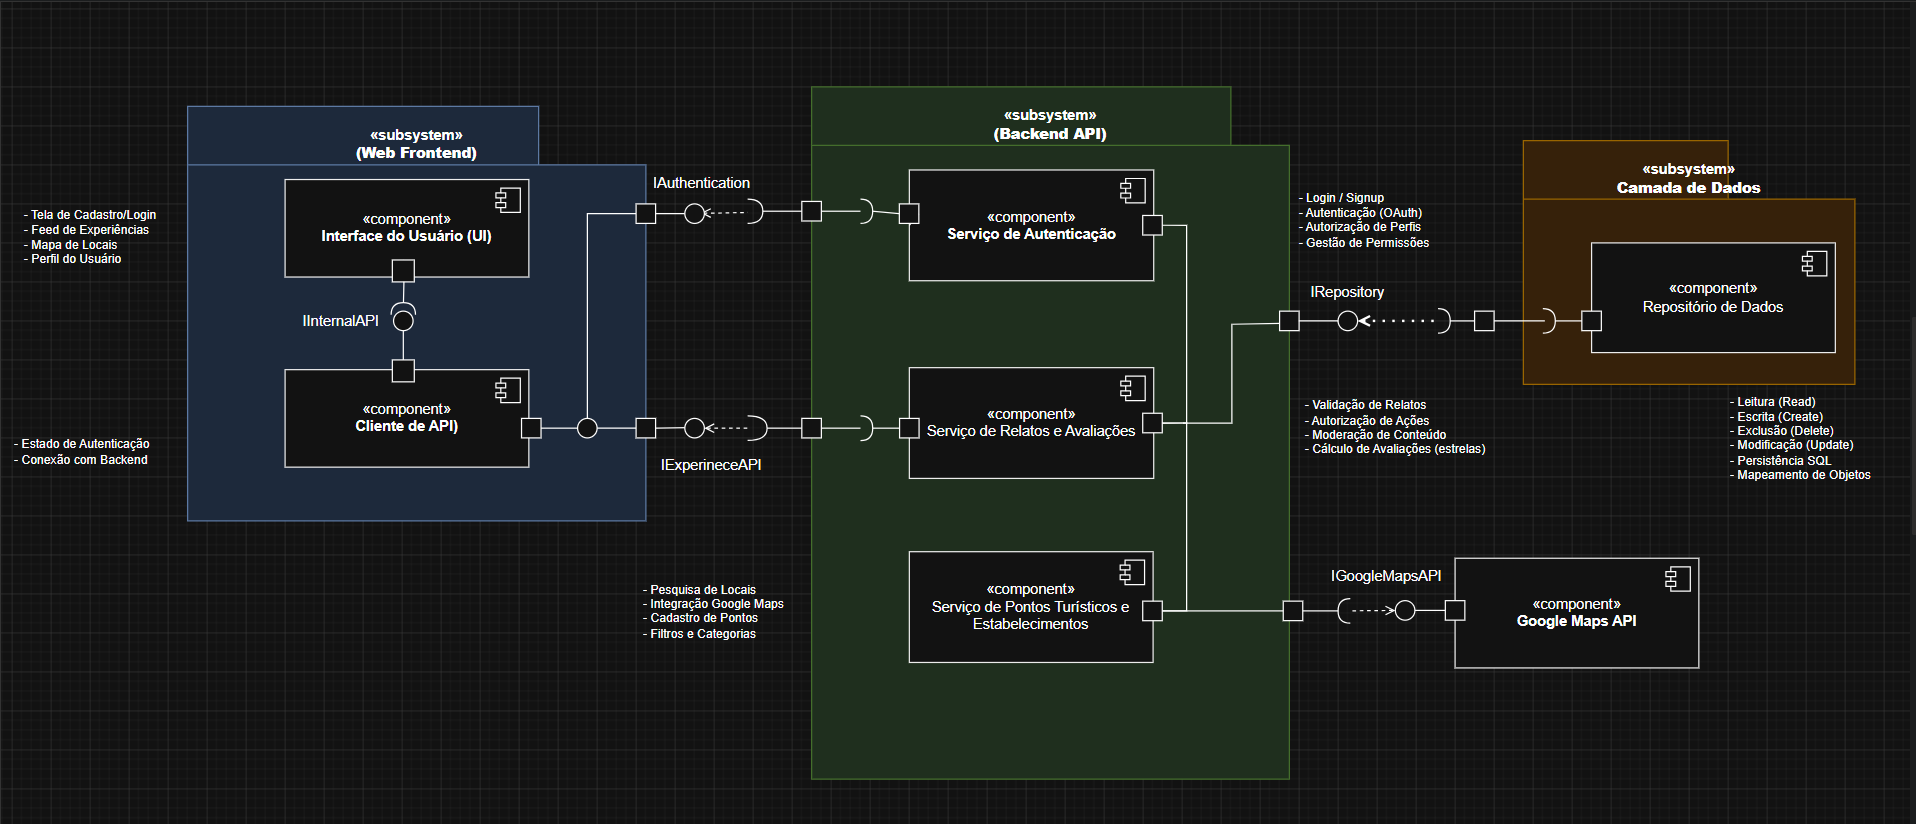
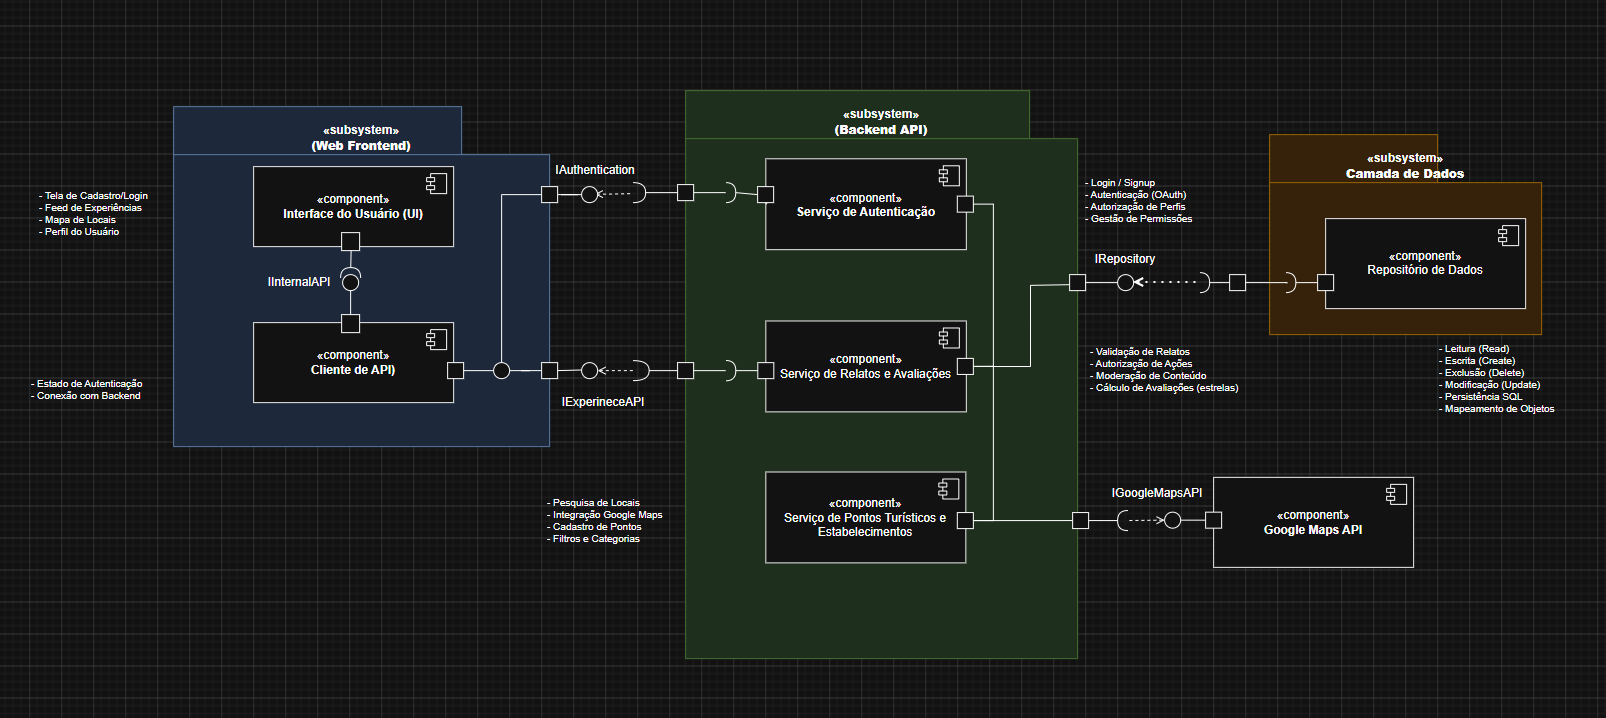
feat: padrao de documentacao e melhoria do conteudo no processo de confeccao do diagrama

diff --git a/docs/Modelagem/ModelagemEstatica/2.1.3.Diagrama_de_Componentes.md b/docs/Modelagem/ModelagemEstatica/2.1.3.Diagrama_de_Componentes.md
@@ -11,47 +11,120 @@ Referência [UML Component (uml-diagrams.org)](https://www.uml-diagrams.org/comp
 
 Documentar, para o projeto **EuAmoPiri**, a arquitetura lógica em componentes e subsistemas que suporta o compartilhamento de experiências sobre Pirenópolis: interface com o utilizador, consumo de APIs de negócio, serviços de autenticação, de relatos e avaliações, de pontos turísticos e estabelecimentos (com integração cartográfica), e persistência via repositório. O objetivo é explicitar **dependências entre módulos** por interfaces, orientando implementação, testes e evolução independente de cada parte.
 
+## Metodologia
+
+Letícia Paiva (letwasz), Mariana Martins Silva e Amanda De Moura utilizaram o **Discord** (canal dedicado ao artefato de componentes) para a confecção e refinamento do diagrama. A comunicação foi predominantemente **assíncrona**, porém frequente: cada proposta de rascunho, dúvida de notação ou ajuste de conectores era compartilhada para que o grupo pudesse refletir, alinhar com o material da disciplina e evoluir o modelo de forma coletiva.
+
+Para **revisão**, aguardamos comentários dos colegas que se dispuseram a revisar o diagrama: **Davi Egito** (DaviMEC), **Gabriela Dourado** e **Milena Marques** (milenamso), também de forma assíncrona no Discord. Os prints das principais discussões e dos feedbacks estão referenciados nas secções seguintes, em ordem cronológica aproximada do fluxo de trabalho.
+
+## Discussões no Discord (evolução do artefato)
+
+As imagens abaixo documentam o fio condutor das decisões, da abertura do trabalho até o alinhamento sobre notação e estrutura do diagrama.
+
+1. **Início do artefato e registro de versão** — Amanda compartilha links do diagrama (Google Drive e draw.io) e inicia o registro de histórico; a primeira entrada documentada é a criação do rascunho por Letícia (13/04/2026). Letícia complementa com o link da videoaula da professora, utilizada como referência principal pelo grupo.
+
+![Discussão — início do artefato e versionamento](./imagens/discussao_discord_artefato_componentes_inicio.png)
+
+2. **Apresentação do primeiro rascunho (camadas)** — Letícia explica a escolha de separar **Interface do Usuário** e **Cliente de API** na camada de apresentação, e serviços de negócio alinhados ao fluxo BPMN (autenticação, locais, experiências), com ligações iniciais à camada de dados.
+
+![Discussão — rascunho e racional da Letícia](./imagens/discussao_discord_artefato_componentes_leiticia_rascunho.png)
+
+3. **Revisão do rascunho com anotações** — Amanda registra feedback visual (anotações em vermelho) sobre aprofundar funcionalidades na UI, relação com visão MVC, distinção autenticação/autorização, operações de persistência (CRUD) e coerência das ligações com `IRepository`.
+
+![Discussão — revisão do rascunho pela Amanda](./imagens/discussao_discord_artefato_componentes_amanda__revisao_rascunho.png)
+
+4. **Portas do serviço de autenticação** — Debate entre Amanda e Letícia sobre modelar login/cadastro como portas separadas ou como **funções internas** de um único ponto de acesso ao serviço; consenso em **uma porta/interface** para o serviço de autenticação como um todo, em vez de fragmentar cada operação.
+
+![Discussão — autenticação e portas](./imagens/discussao_discord_artefato_componentes_leiticia_amanda_autenticacao.png)
+
+5. **Camada de dados e Google Maps** — Mariana questiona a necessidade de ambos os serviços (experiências e locais) dependerem da camada de dados; Letícia confirma. Sobre o Google Maps, acorda-se representá-lo como **componente externo** ligado ao serviço de locais, por consumo de API, em vez de subsistema interno.
+
+![Discussão — experiências, dados e Maps](./imagens/discussao_discord_artefato_componentes_leiticia_mariana_experiencias.png)
+
+6. **Tipo de linha e integração externa** — Mariana pede opinião sobre linhas tracejadas vs. contínuas nas relações de requerimento; após troca com Amanda (e contexto da Letícia sobre Maps), Mariana **padroniza linhas contínuas** onde fazia sentido para a leitura do grupo. Fica registrado o matiz de cadastro de local por morador, além do consumo do mapa.
+
+![Discussão — linhas contínuas/tracejadas e Maps](./imagens/discussao_discord_artefato_componentes_amanda__mariana_linha_cont.png)
+
+7. **Padronização gráfica dos “pirulitos”** — Davi aponta inconsistência visual: interfaces providas com formato **elíptico** em vez de **circulares**; o grupo acorda corrigir para evitar penalização na correção e manter notação uniforme.
+
+![Discussão — revisão gráfica (Davi)](./imagens/discussao_discord_artefato_componentes_davi_revisao.png)
+
+8. **Dependências e visão de componente (pós-aula)** — Amanda e Mariana alinham após aula sobre componentes, refinando os **conectores de dependência/requerimento** e a intenção de **consolidar um único diagrama** final, em vez de versões paralelas desconexas.
+
+![Discussão — relações de dependência e refinamento final](./imagens/discussao_discord_artefato_componentes_amanda__mariana_rel_dep.png)
+
+## Feedbacks dos revisores
+
+Além das mensagens já integradas ao fio das [Discussões no Discord](#discussões-no-discord-evolução-do-artefato) (em especial o **item 7**, com o print da revisão do Davi), os registos abaixo destacam feedbacks dos revisores.
+
+**Davi Egito** — Padronização das interfaces providas (**círculos** em vez de formas elípticas) e visão geral positiva do restante do artefato após o ajuste (vide **item 7** nas discussões e respetiva imagem).
+
+**Gabriela Dourado** — Reconhecimento do uso de templates UML; elogio à nomeação de interfaces com prefixo **`I`**, citando `IGoogleMapsAPI` como exemplo intuitivo de contrato.
+
+![Feedback — Gabriela Dourado](./imagens/discussao_discord_artefato_componentes_gabi_revisao.png)
+
+**Milena Marques** — Identificação de **interface/conector pendente** no subsistema de relatos em relação ao frontend; Mariana assume o ajuste para fechar o fluxo de comunicação de forma coerente.
+
+![Feedback — Milena Marques](./imagens/discussao_discord_artefato_componentes_milena_revisao.png)
+
 ## Evolução do artefato
 
-### Versão 1.0.0 — rascunho (13/04/2026)
+A sequência de figuras abaixo acompanha a linha visual principal acordada pelo grupo — **do rascunho inicial à versão final** — e **correlaciona-se ao [Histórico do artefato](#histórico-do-artefato)** (versões `1.0.0` a `1.2.1`)
 
-Primeira versão do diagrama de componentes, definindo subsistemas e componentes principais e iniciando o desenho das relações entre frontend, backend e dados.
+### Figura 1 — Rascunho inicial
 
-### Versão 1.0.0 — revisão e direcionamentos (14/04/2026)
+**Correlação com o histórico:** `1.0.0` — **13/04/2026** — criação do rascunho (Letícia Paiva).
 
-Análise do rascunho com foco em nomenclaturas, interfaces e termos.
+Primeira materialização em três grandes blocos (apresentação, negócio, dados), com **Interface do Usuário**, **Cliente de API**, serviços de **Autenticação**, **Gerenciador de Experiências** e **Serviço de Locais**, e **Acesso a Dados (DAO)**, já com interfaces `IAuthService`, `IExperienceAPI` e `IRepository` esboçadas entre camadas.
 
-### Versão 1.1.0 (15/04/2026)
+![Diagrama de componentes — rascunho inicial (v0)](./imagens/diagrama_componentes_v0.png)
 
-Elaboração de uma segunda versão do diagrama com correção da **notação** dos elementos, aproximando o modelo do detalhe de implementação e especificando sobretudo relações **provide** e **require** envolvendo o serviço de locais (pontos turísticos e estabelecimentos).
+**Letícia Paiva:** no processo de criação do primeiro rascunho, parti das decisões que já tínhamos sobre o funcionamento do sistema e extraí principalmente informações da modelagem **BPMN**, o que ajudou a ter uma noção inicial de como separar em **camadas**. A partir disso, tentei organizar as principais partes do sistema e agrupar várias ações relacionadas para identificar um **componente**. Além disso, a **videoaula da professora** contribuiu bastante para entender melhor a estruturação do diagrama e orientar a construção do primeiro rascunho.
 
-### Versão 1.2.0 (16/04/2026)
+### Figura 2 — Versão Adaptada (exploratória)
 
-Correção de requerimentos, acréscimo de um componente e ajustes para tornar o diagrama mais **completo** e coerente com o restante desenho do sistema.
+**Correlação com o histórico:** momento ligado à **análise e direcionamentos** de **14/04/2026** (`1.0.0`, Amanda De Moura) e à discussão de **aprofundamento** do modelo; trata-se de uma **variante de organização** produzida para experimentar o alinhamento com exemplos de slides/aula, **sem substituir** o rascunho da Letícia como base principal da evolução.
 
-### Versão final (1.2.1) — 18/04/2026
+![Diagrama de componentes — versão alternativa (exploratória)](./imagens/diagrama_componentes_versao_alternativa.png)
 
-Análise final: melhor organização dos **conectores**, padronização do tamanho dos componentes e **um único** diagrama consolidado. A figura seguinte corresponde a esta versão.
+**Amanda De Moura:** a partir do que a Letícia trouxe, fiquei instigada a deixar o mais parecido com os exemplos que já tinha visto nos **slides**, então comecei criando uma **versão adaptada** do diagrama-rascunho que ela tinha trazido, para demonstrar como poderia ser organizado. Essa versão **não ficou tão boa** para visualizar os componentes do sistema; logo a escolhida foi a **inicial**, e a partir de um **feedback positivo da professora**, entendi que estávamos no **caminho correto**.
+
+### Figura 3 — Versão após correções estruturais
+
+**Correlação com o histórico:** `1.2.0` — **16/04/2026** — correção de requerimentos, acréscimo de componente e diagrama mais completo (Mariana Martins Silva).
+
+Inclui ajustes de **requerimentos** e de **fronteiras** entre subsistemas, integração da **API do Google Maps** como componente **externo**, e maior coerência com o desenho geral do sistema e as discussões sobre dependência da **camada de dados** pelos serviços de negócio.
+
+![Diagrama de componentes — versão 1.2.0 (Mariana)](./imagens/diagrama_componentes_v1_mariana.png)
+
+**Mariana Martins Silva:** na finalização da criação do diagrama de componentes, foi essencial ter uma noção básica de como **cada componente se relacionava com o outro**; com isso, foi mais fácil abstrair as ideias necessárias para fazer os devidos **refinamentos** e as **correções** de portas, ligações e componentes.
+
+### Figura 4 — Versão final
+
+**Correlação com o histórico:** `1.2.1` — **18/04/2026** — análise final: organização dos conectores, padronização do tamanho dos componentes e consolidação em **um único** diagrama (Amanda De Moura).
 
 ![Diagrama de componentes — versão final 1.2.1](./imagens/diagrama_componentes_final.png)
 
-Subsistemas e interfaces principais representados:
+**Amanda De Moura:** após a aula de diagrama de componentes, a Mariana já tinha conseguido melhorar os pontos de erro que tínhamos em relação aos **conectores**, às suas **fronteiras** e aos **tipos de linhas** nas relações de dependência; busquei **revisar e organizar** melhor as conexões. Vi que ainda havia uma parte no subsistema **Web Frontend** que podia ser **condensada** e melhorada em relação à interface de **provide**, e no subsistema **Backend API**, a organização dos conectores de **require** em relação ao subsistema Web Frontend.
 
-- **Subsistema Frontend Web**: componentes *Interface do Usuário* e *Cliente de API*, ligados internamente por *InternalAPI*;
-- **Subsistema API Backend**: *Serviço de Autenticação*, *Serviço de Relatos e Avaliações* e *Serviço de Pontos Turísticos e Estabelecimentos*; o *Cliente de API* **provê** o *IAuthentication* (requerido pelo serviço de autenticação) e *IExperienceAPI* (requerida pelo serviço de relatos e avaliações).
-- **Subsistema Camada de Dados**: *Repositório de Dados*, que **requer  ** *IRepository*; os três serviços de backend **proveem** *IRepository*.
-- **Google Maps API** (externo): **provê** *IGoogleMapsAPI*, **requerida** pelo *Serviço de Pontos Turísticos e Estabelecimentos*.
+**Subsistemas e interfaces principais** na versão final:
 
-
+- **Web Frontend:** *Interface do Usuário* e *Cliente de API*, com ligação interna por interface de uso do cliente (por exemplo `IInternalAPI` / contrato interno entre UI e cliente HTTP).
+- **Backend API:** *Serviço de Autenticação*, *Serviço de Relatos e Avaliações* e *Serviço de Pontos Turísticos e Estabelecimentos*; o *Cliente de API* **requer** interfaces providas pelo backend (por exemplo **`IAuthentication`** e **`IExperienceAPI`**), conforme portas no limite do subsistema.
+- **Camada de Dados:** *Repositório de Dados* **provê** **`IRepository`**, **requerida** pelos serviços de backend que persistem ou consultam dados.
+- **Google Maps API** (externo): **provê** **`IGoogleMapsAPI`**, **requerida** pelo *Serviço de Pontos Turísticos e Estabelecimentos*.
 
 ## Visão dos contribuidores na concepção do diagrama
 
-**Letícia Paiva:** o rascunho inicial ajudou a equipe a alinhar quais “caixas” do sistema existiam antes de fechar contratos; 
+**Letícia Paiva:** no processo de criação do primeiro rascunho do diagrama de componentes, parti das decisões que já tínhamos sobre o funcionamento do sistema e extraí principalmente informações da modelagem **BPMN**, o que ajudou a ter uma noção inicial de como separar em camadas. A partir disso, tentei organizar as principais partes do sistema e agrupar várias ações relacionadas para identificar um componente. Além disso, a videoaula da professora contribuiu bastante para entender melhor a estruturação do diagrama e orientar a construção do primeiro rascunho.
 
-**Mariana Martins Silva:** a versão 1.2.0 foi o momento de corrigir **requerimentos** faltantes ou ambíguos e incluir o componente que faltava para o modelo refletir o fluxo real de dados e integrações.
+**Mariana Martins Silva:** na finalização da criação do diagrama de componentes foi essencial ter uma noção básica de entendimento sobre como cada componente se relacionava com o outro; com isso, foi mais fácil abstrair as ideias necessárias para fazer os devidos refinamentos e as correções necessárias de portas, ligações e componentes.
 
-**Amanda De Moura:** nas revisões 1.0.0–1.2.1 o foco foi analisar de provide/require, em especial no serviço de locais, e fechar o diagrama com padronizado,  com os conectores organizados.
+**Amanda De Moura:** foi um processo de criação com um nível de abstração inicialmente confuso para mim, pois tinha um viés grande de componentização por causa do React, mas após tirar algumas dúvidas com a professora e receber alguns feedbacks das meninas que executaram comigo, ficou mais claro enxergar e conseguir ter um melhor senso crítico para construir esse diagrama no nível do projeto que estamos hoje. Além disso,foi uma ótima experiência práticas para entender a relação de **requerir** e de **prover** uma interface dentre os componentes.
 
+## Link para o Draw.io
+
+Clique [aqui](https://drive.google.com/file/d/1qFr0G9PWbRGRonvKnP4rvXsHXP0JqUq2/view?usp=sharing) para acessar o diagrama no Google Drive (arquivo draw.io do grupo).
 
 ## Referências
 
@@ -67,10 +140,11 @@ Material da disciplina **Arquitetura e Desenho de Software** (UnB): apostila UML
 | 14/04/2026 | 1.0.0  | Análise do rascunho, com direcionamentos para evoluções e melhorias em nomenclaturas, interfaces, termos e diagramação em mais baixo nível             | Amanda De Moura       |  [Milena Marques](https://github.com/milenamso)   & [Gabriela Dourado](https://github.com/gabrieladouradof) & [Davi Egito](https://github.com/daviegito)   |
 | 15/04/2026 | 1.1.0  | Implementação de uma v2 com correção da notação, aproximando o baixo nível; destaque às relações provide/require no serviço de locais                    | Amanda De Moura       | [Milena Marques](https://github.com/milenamso)   & [Gabriela Dourado](https://github.com/gabrieladouradof) & [Davi Egito](https://github.com/daviegito) |
 | 16/04/2026 | 1.2.0  | Correção de requerimentos, acréscimo de componente e diagrama mais completo e lógico                                                                   | Mariana Martins Silva | [Milena Marques](https://github.com/milenamso)   & [Gabriela Dourado](https://github.com/gabrieladouradof) & [Davi Egito](https://github.com/daviegito)     |
-| 18/04/2026 | 1.2.1  | Análise final: organização dos conectores, padronização do tamanho dos componentes e remoção do segundo diagrama                                     | Amanda De Moura       | [Milena Marques](https://github.com/milenamso)   & [Gabriela Dourado](https://github.com/gabrieladouradof) & [Davi Egito](https://github.com/daviegito) |
+| 18/04/2026 | 1.2.1  | Análise final: organização dos conectores, padronização do tamanho dos componentes e remoção diagrama adaptado                                      | Amanda De Moura       | [Milena Marques](https://github.com/milenamso)   & [Gabriela Dourado](https://github.com/gabrieladouradof) & [Davi Egito](https://github.com/daviegito) |
 
 ## Histórico do documento
 
 | Data       | Versão | Descrição                                                                 | Autor           | Revisores |
 | ---------- | ------ | ------------------------------------------------------------------------- | --------------- | --------- |
 | 18/04/2026 | 1.0.0  | Criação da documentação | Amanda De Moura | [Mariana Martins](https://github.com/Marianamrts)   & [Letícia Paiva](https://github.com/leticiakrpaiva) |
+| 23/04/2026 | 1.1.0  | Metodologia, discussões no Discord, feedbacks dos revisores, evolução do artefato alinhada às figuras v0 → alternativa → v1 → final e link do draw.io | Amanda De Moura | [Mariana Martins](https://github.com/Marianamrts) & [Letícia Paiva](https://github.com/leticiakrpaiva) |
